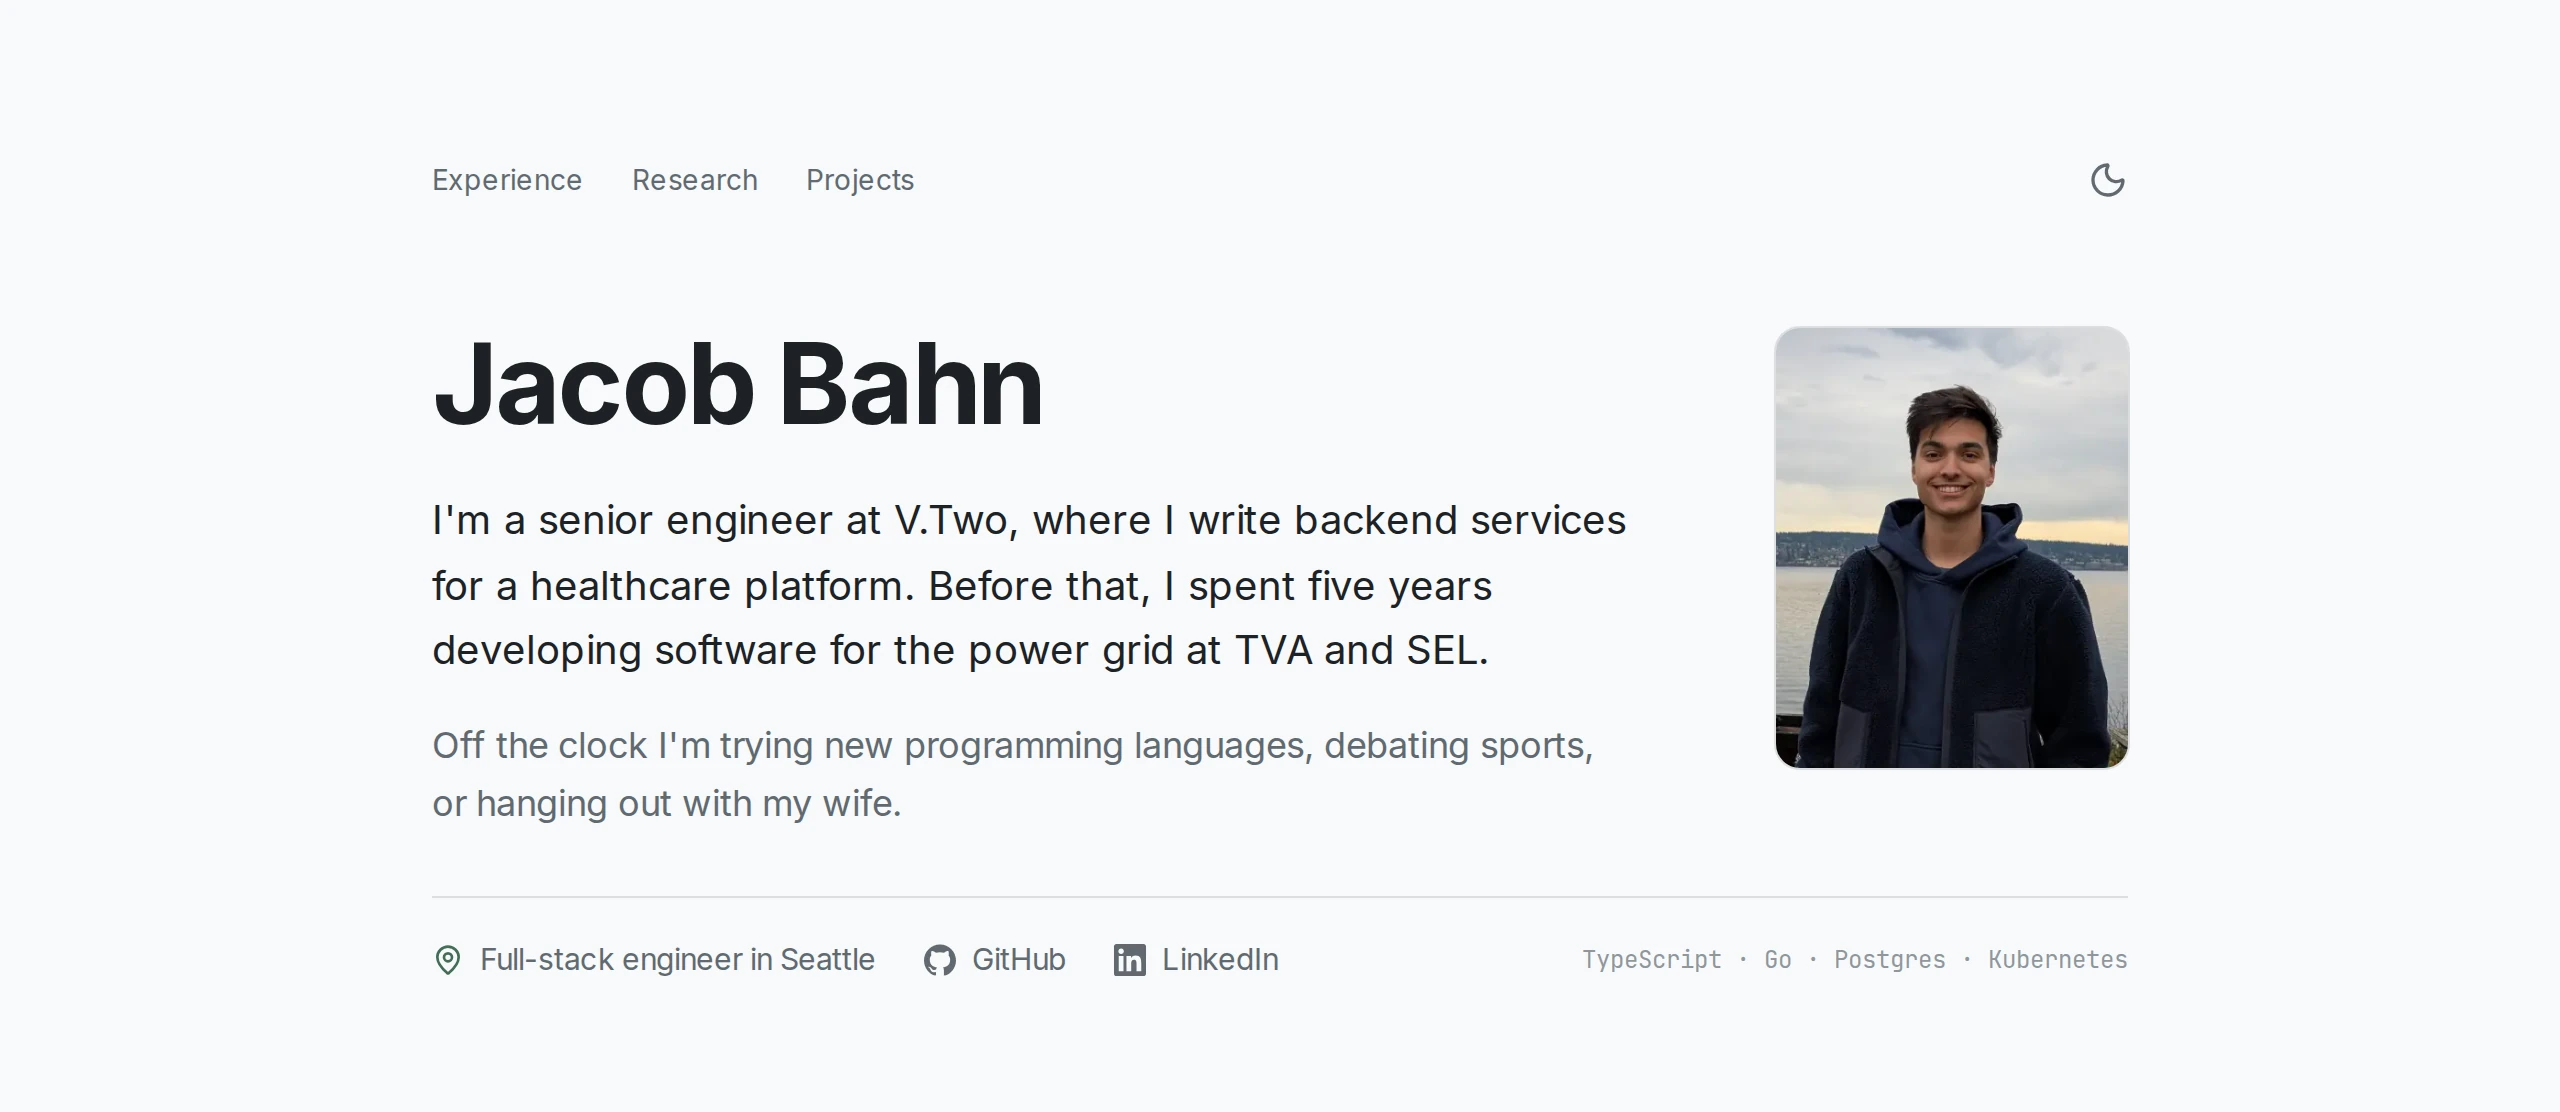
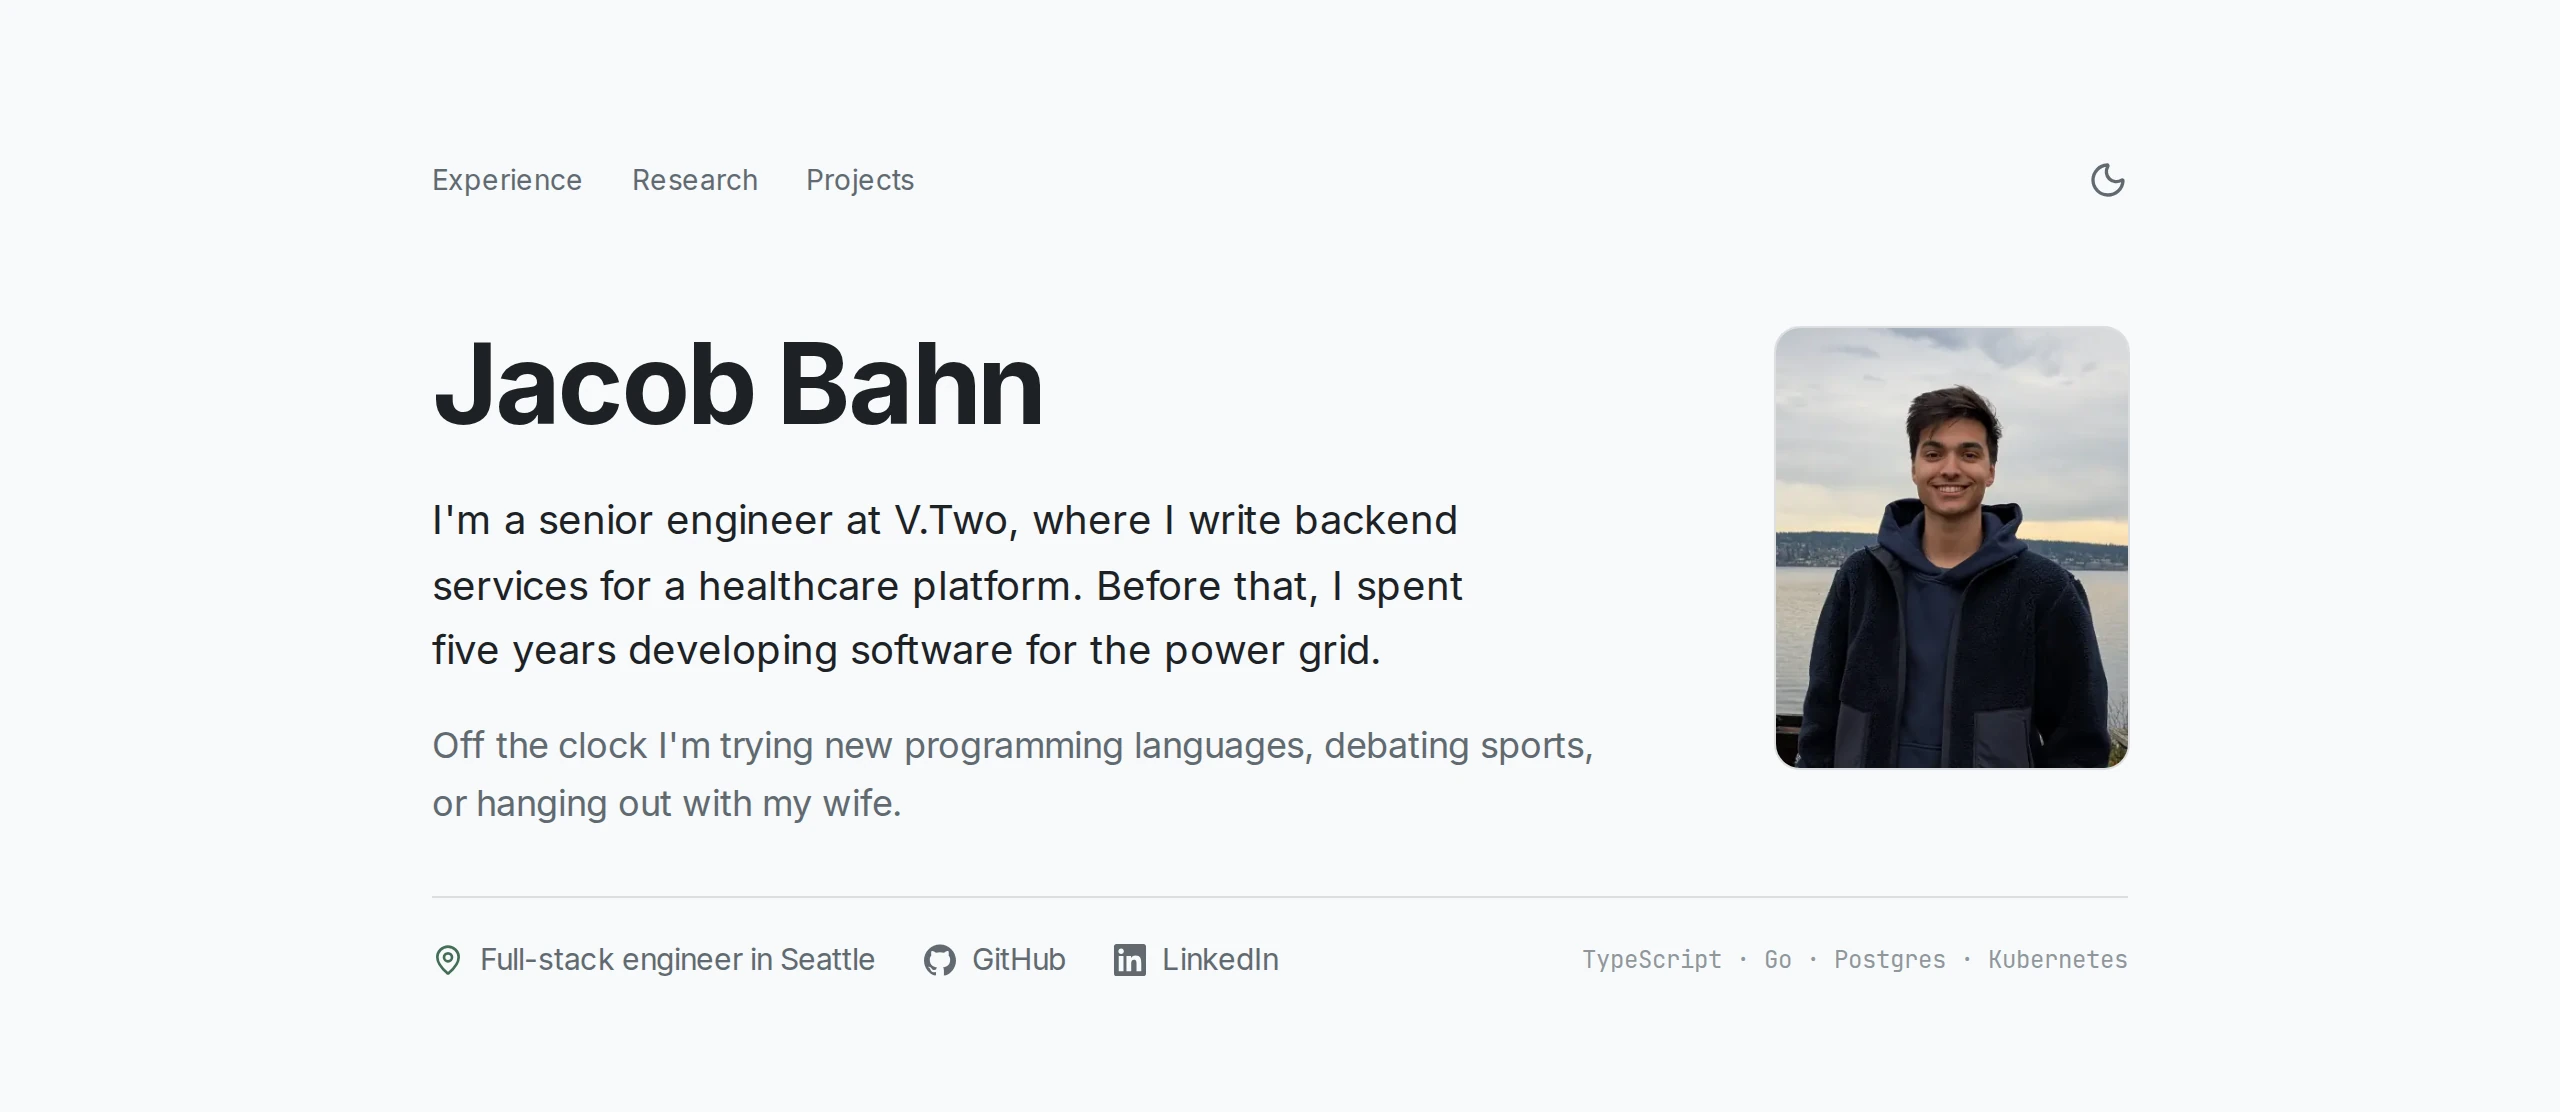
feat(hero): balance the intro and leave past employers to Experience
Balance the first paragraph on desktop so its lines stop stepping
leftward, and keep "I write" together on narrow screens. TVA and SEL
are already listed in Experience, so the intro just says "the power
grid".

Changed region(s): [[0.1562, 0.5198, 0.5938, 0.6115], [0.5625, 0.4586, 0.6562, 0.4892]]

diff --git a/components/hero.tsx b/components/hero.tsx
@@ -27,10 +27,10 @@ export function Hero() {
           Jacob Bahn
         </h1>
         <div className="col-span-2 mt-6 max-w-[60ch] md:col-span-1 md:row-start-2">
-          <p className="text-pretty text-lg leading-relaxed text-foreground md:text-xl">
-            I&apos;m a senior engineer at V.Two, where I write backend services
+          <p className="text-pretty text-lg leading-relaxed text-foreground md:text-balance md:text-xl">
+            I&apos;m a senior engineer at V.Two, where I&nbsp;write backend services
             for a healthcare platform. Before that, I spent five years
-            developing software for the power grid at TVA and SEL.
+            developing software for the power grid.
           </p>
           <p className="mt-4 text-pretty leading-relaxed text-muted-foreground md:text-lg">
             Off the clock I&apos;m trying new programming languages, debating
